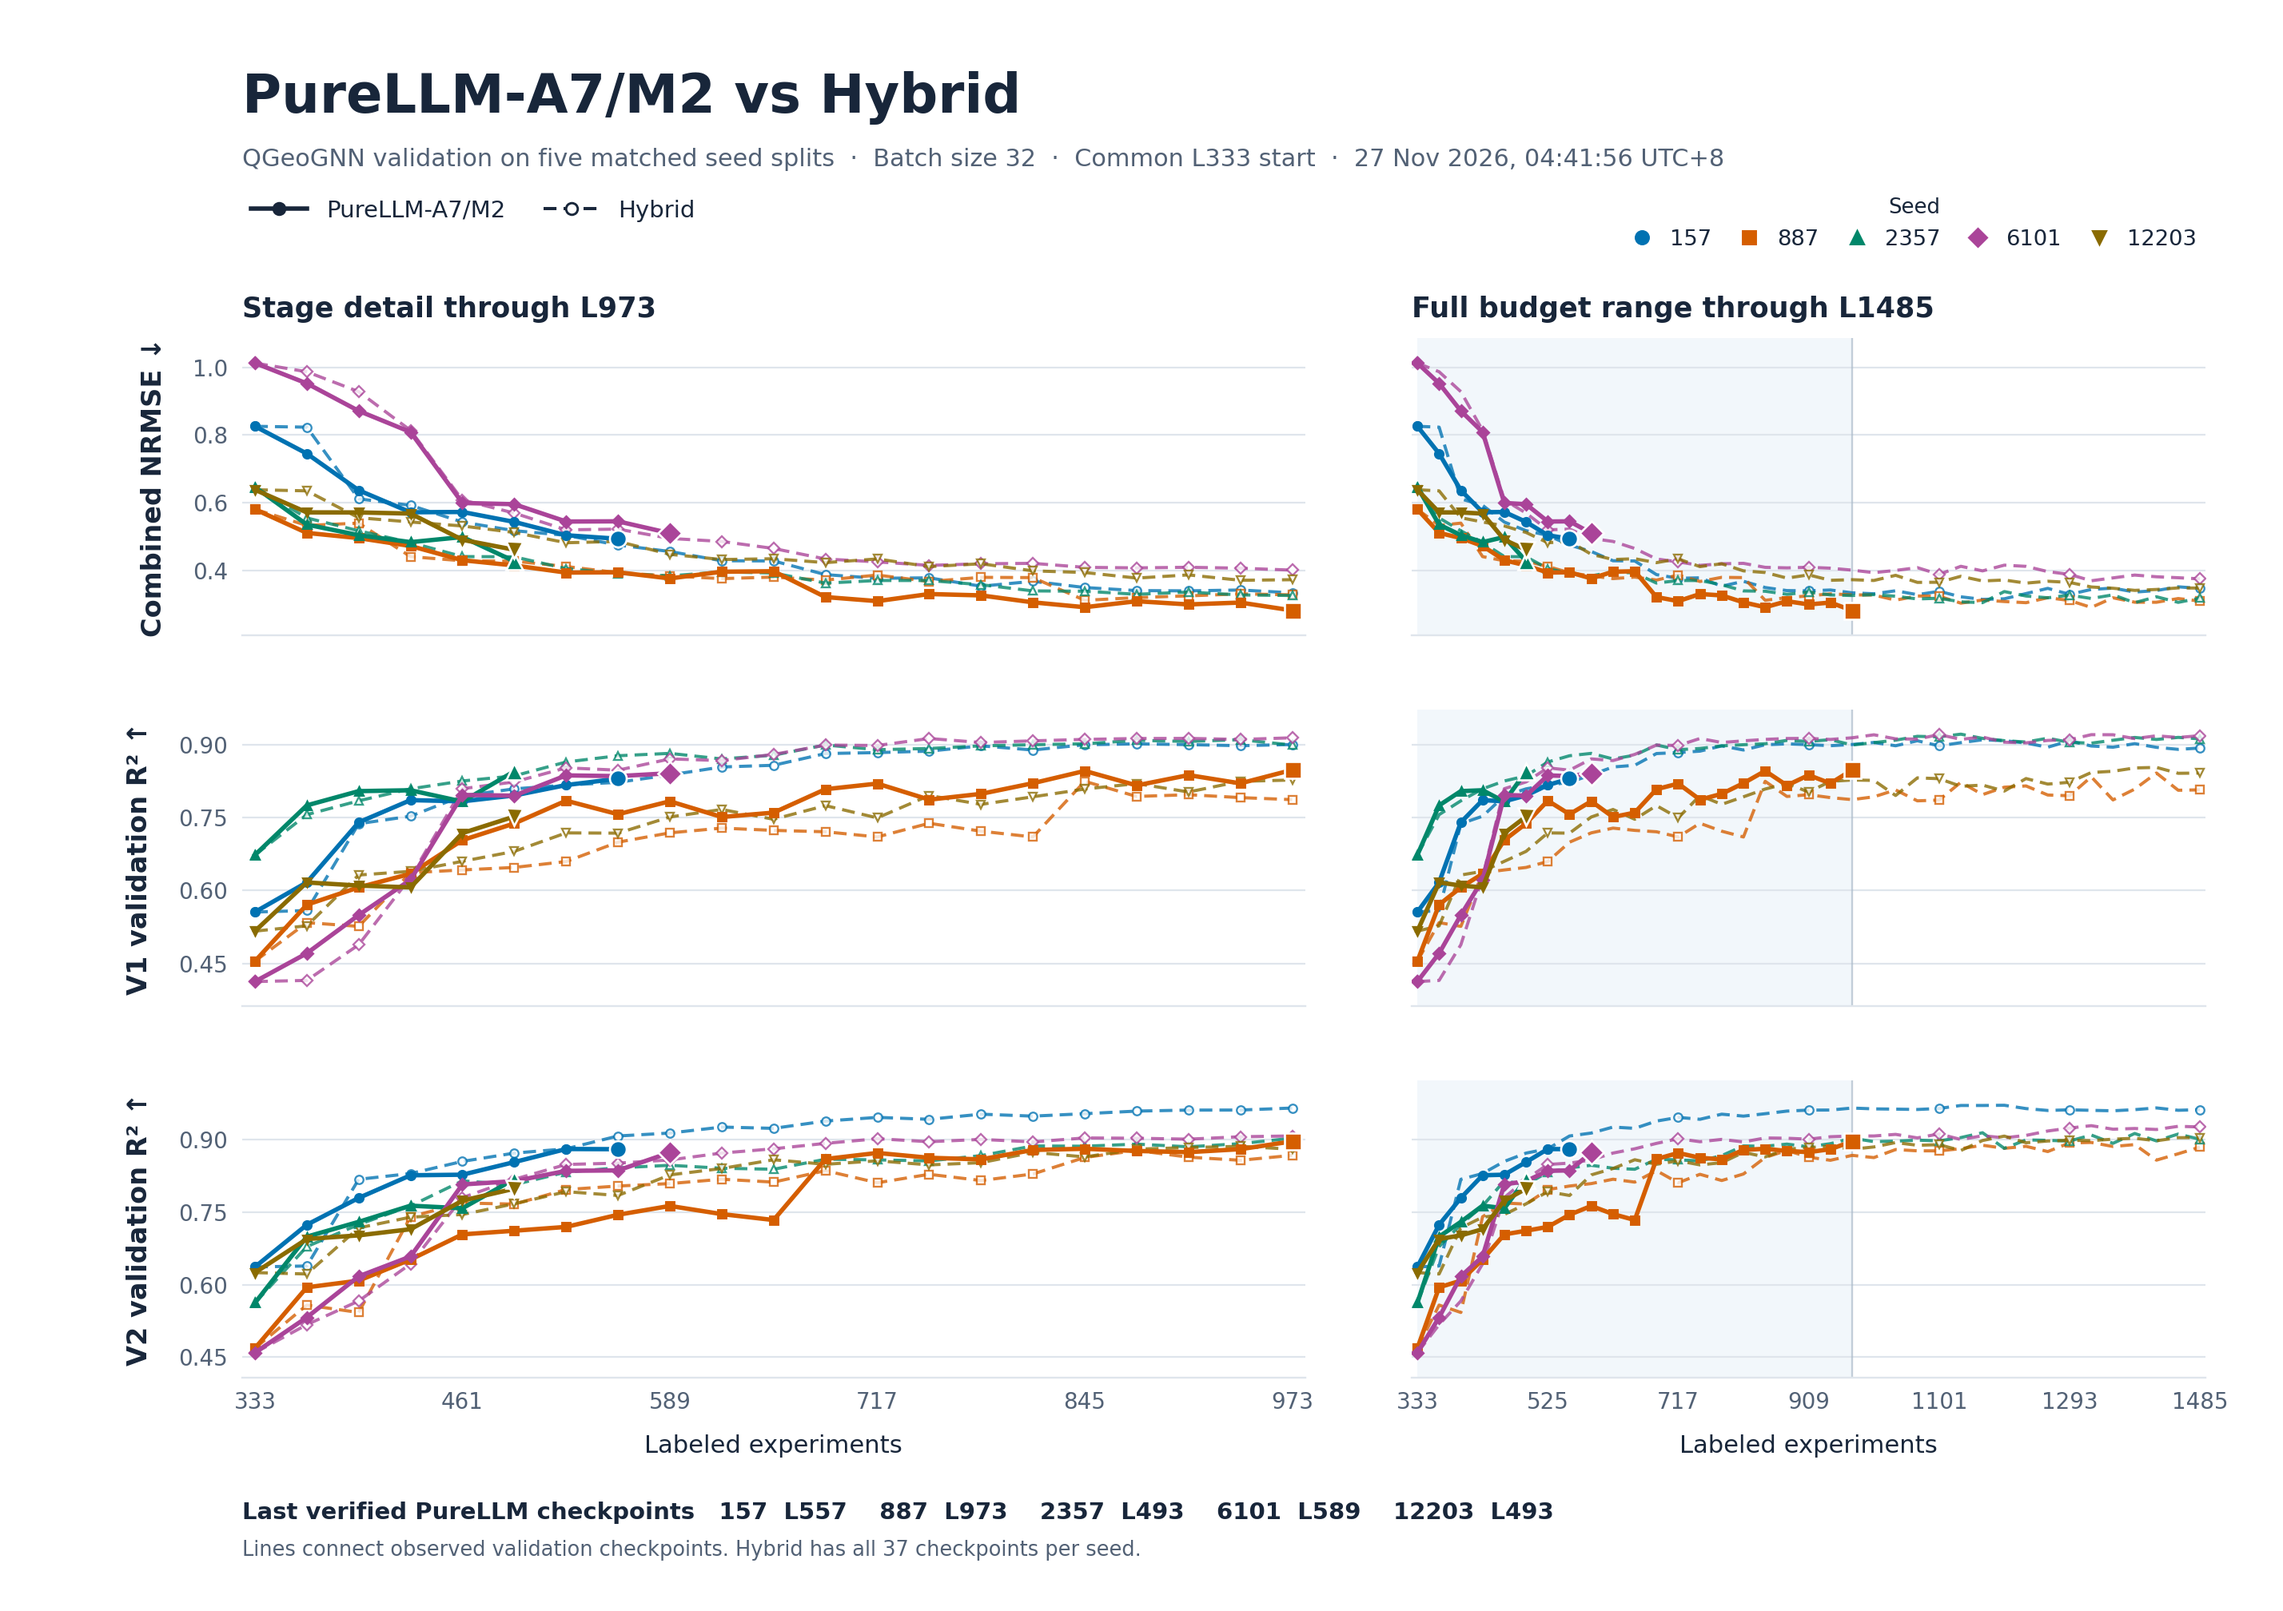
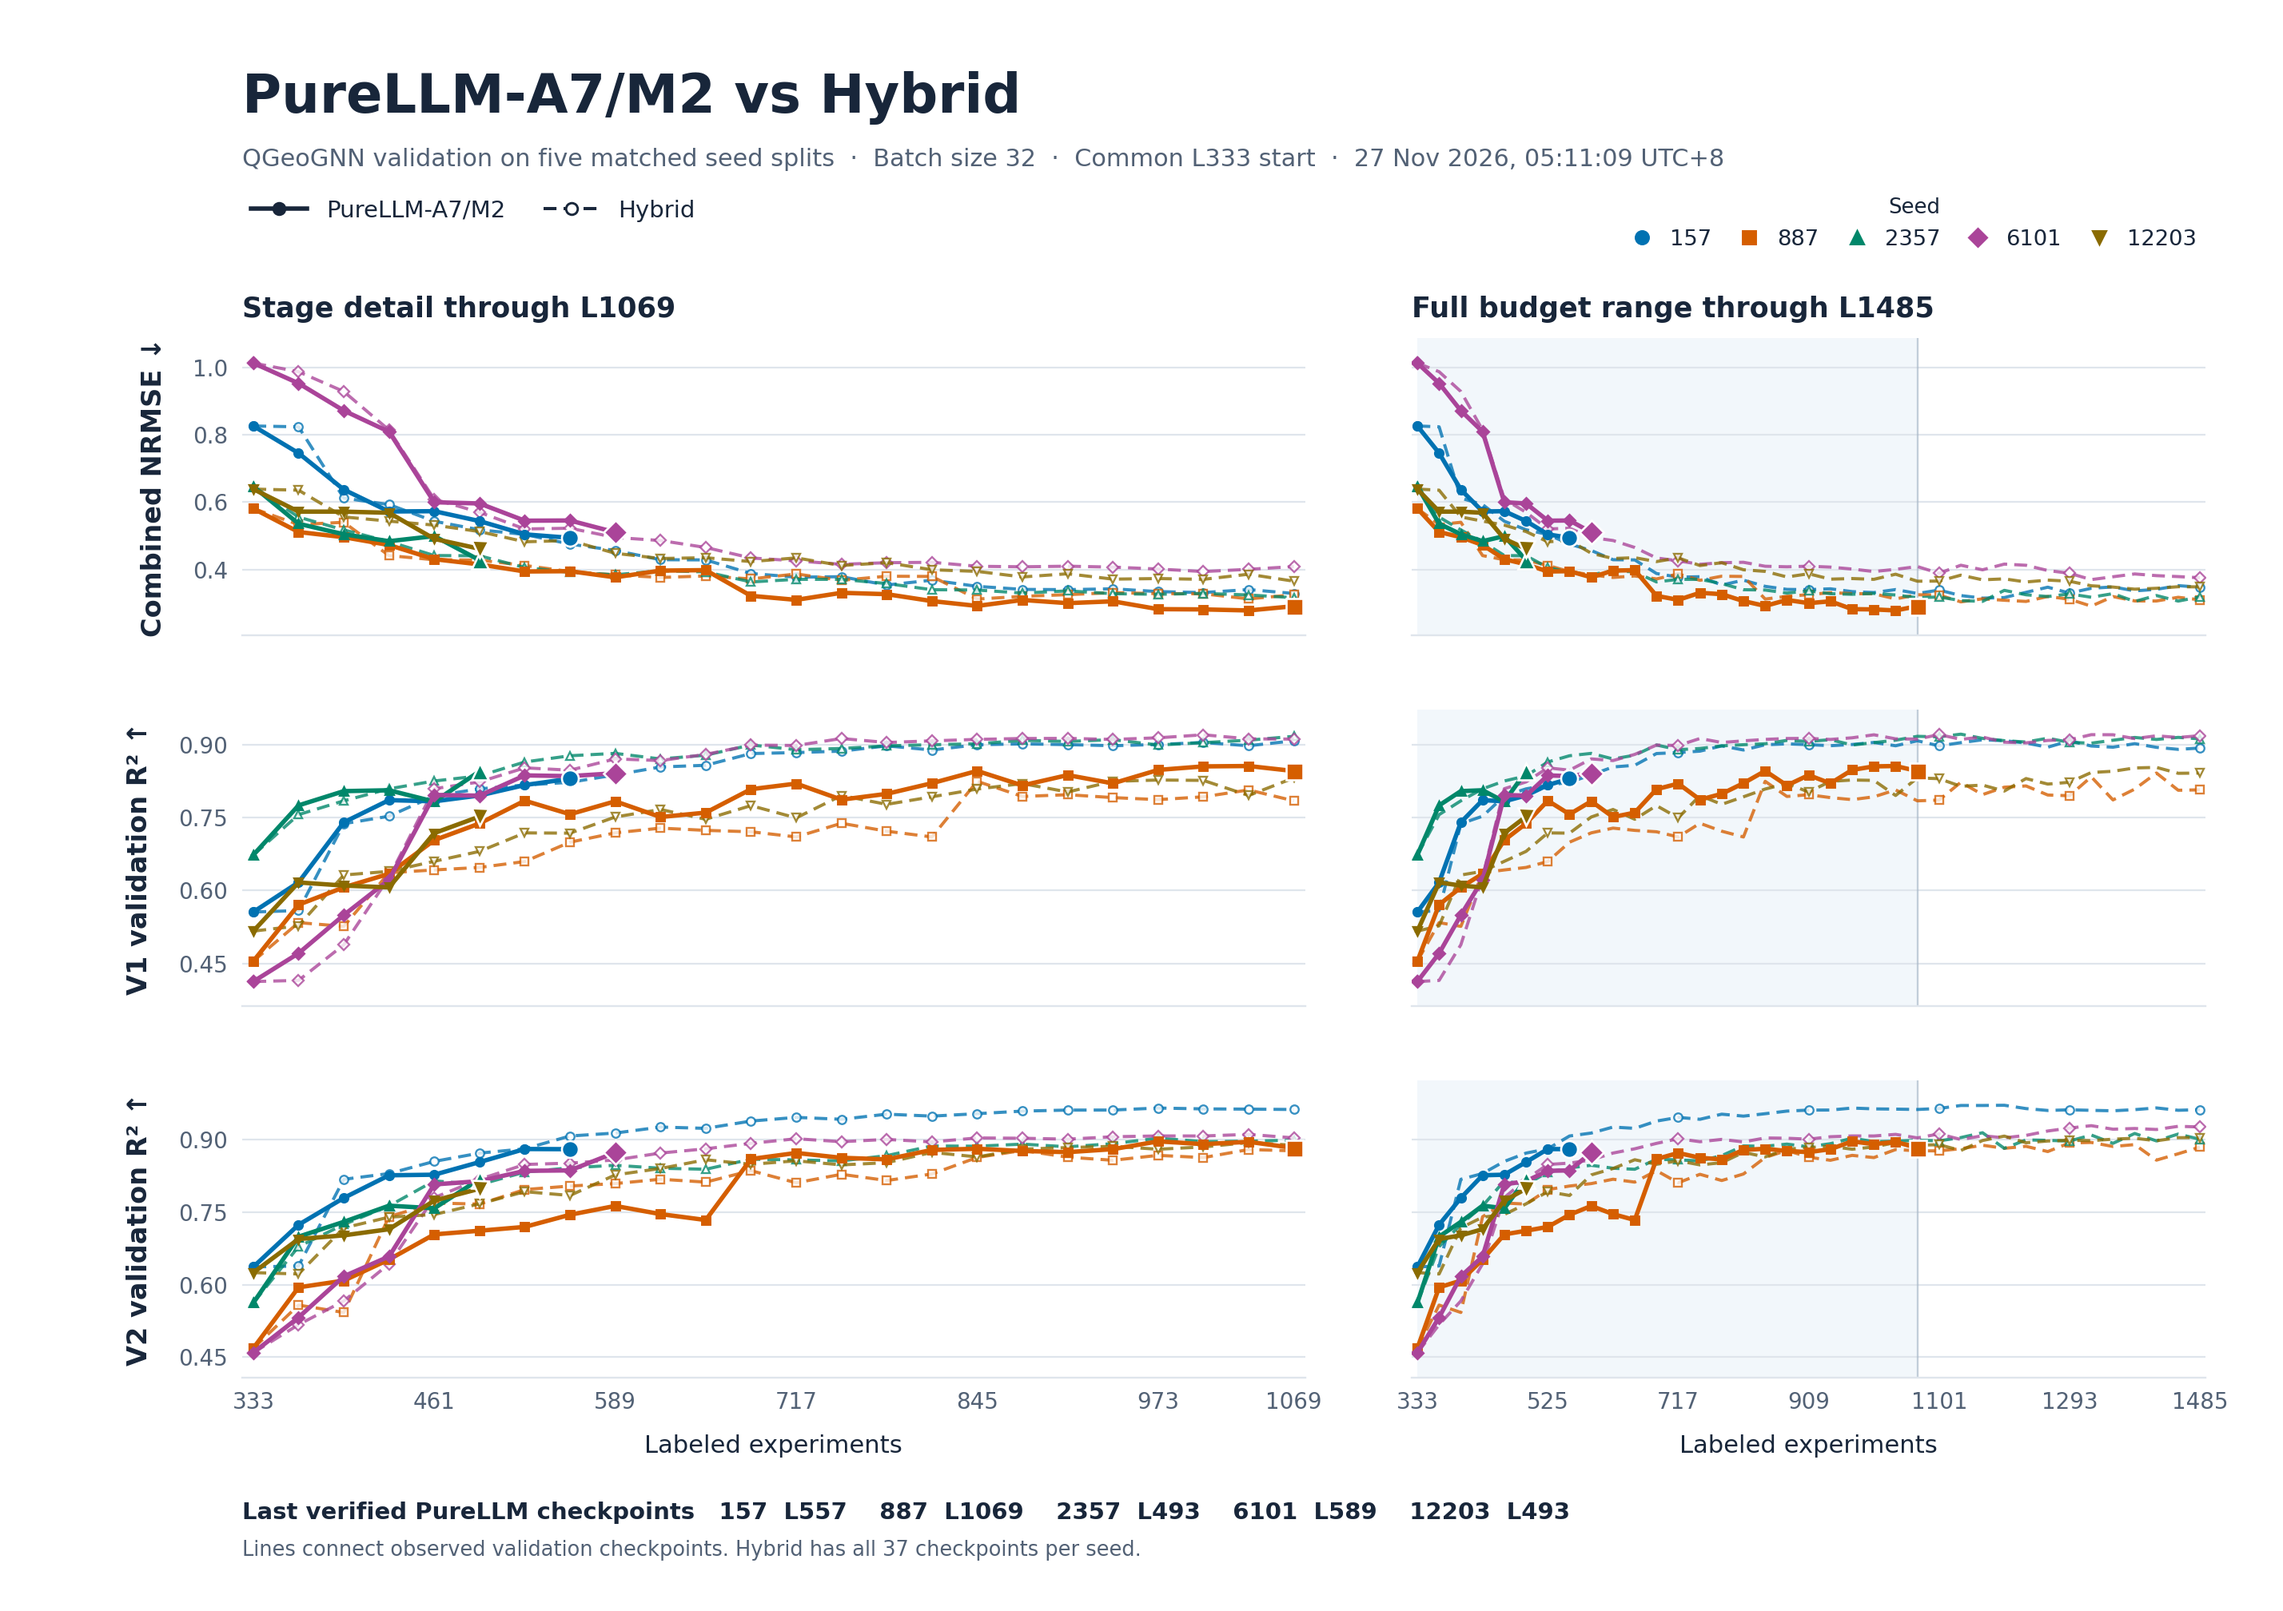
Refresh paired stage comparison through seed 887 L1069

diff --git a/reports/purellm_a7_stage_20261126/README.md b/reports/purellm_a7_stage_20261126/README.md
@@ -1,8 +1,8 @@
 # PureLLM-A7/M2 与 Hybrid 五 seed 阶段对比
 
-验证数据快照的核验时间为北京时间 2026 年 11 月 27 日 04:41:56。PureLLM 已完成 45 轮 CUDA 训练，记录了 1,440 条冻结选点及其理由。Hybrid 为正式 CUDA Uncertainty + Diversity Hybrid32，五条轨迹均已到 L1485。
+验证数据快照的核验时间为北京时间 2026 年 11 月 27 日 05:11:09。PureLLM 已完成 48 轮 CUDA 训练，记录了 1,536 条冻结选点及其理由。Hybrid 为正式 CUDA Uncertainty + Diversity Hybrid32，五条轨迹均已到 L1485。
 
-两种方法在每个 seed 上共用同一份 L333 CUDA checkpoint、验证划分和 QGeoGNN 训练协议，每轮新增 32 个实验。图中数值来自各预算选定 checkpoint 的验证记录。左侧放大截至 L973 的阶段性曲线，右侧展示完整预算范围。实线止于各 seed 最后一次已完成的 PureLLM 训练。颜色和标记配对同一个 seed。 [L333 配对核验](paired_l333_anchor_receipts.json) · [Hybrid 正式归档](../eit_cuda_three_methods_20261124/README.md)
+两种方法在每个 seed 上共用同一份 L333 CUDA checkpoint、验证划分和 QGeoGNN 训练协议，每轮新增 32 个实验。图中数值来自各预算选定 checkpoint 的验证记录。左侧放大截至 L1069 的阶段性曲线，右侧展示完整预算范围。实线止于各 seed 最后一次已完成的 PureLLM 训练。颜色和标记配对同一个 seed。 [L333 配对核验](paired_l333_anchor_receipts.json) · [Hybrid 正式归档](../eit_cuda_three_methods_20261124/README.md)
 
 ![PureLLM 与 Hybrid 的五 seed 验证曲线](purellm_vs_hybrid_stage.png)
 
@@ -11,7 +11,7 @@
 | Seed | PureLLM 已完成轮次 | 最新预算 | PureLLM 验证 NRMSE | 同预算 Hybrid NRMSE | 差值 |
 |---:|---:|---:|---:|---:|---:|
 | 157 | 7 | L557 | 0.4944 | 0.4759 | +0.0185 |
-| 887 | 20 | L973 | 0.2831 | 0.3291 | -0.0460 |
+| 887 | 23 | L1069 | 0.2919 | 0.3257 | -0.0339 |
 | 2357 | 5 | L493 | 0.4282 | 0.4412 | -0.0130 |
 | 6101 | 8 | L589 | 0.5108 | 0.4954 | +0.0154 |
 | 12203 | 5 | L493 | 0.4620 | 0.5130 | -0.0510 |
@@ -28,9 +28,11 @@
 
 887 的 R19 原付费请求已收到服务商的完整响应。旧解析器因一条只有一个空格的未标注消息拒绝了该响应。系统从归档回执提取显式最终答案，核验原有 32 个选点、顺序及理由后完成训练至 L973。该轮原请求报告 358,211 个输入 token 和 14,039 个输出 token，其中推理 5,435 个。归档恢复新增 0 次 API 请求，L973 的验证 NRMSE 为 **0.2831**。
 
+887 的 R20 和 R21 实际回复均带有一个未标注阶段的单空格占位消息。新解析器保留了完整的显式最终答案，两轮首答均通过 A7 校验。R22 回复直接包含显式最终答案，首答也通过校验。三轮各冻结 32 个选点并完成 CUDA 训练。L1069 的验证 NRMSE 为 **0.2919**。
+
 ## 数据和选点
 
-- [PureLLM 验证指标](purellm_validation_curves.csv) 包含 5 个初始检查点和 45 个后续训练点。`round=0` 对应共享 L333，`acquisition_round=0` 对应首次选点和 L365 训练。 CSV 保留每个指标文件和 checkpoint 的摘要。 [PureLLM 逐文件清单](purellm_export_manifest.json)
+- [PureLLM 验证指标](purellm_validation_curves.csv) 包含 5 个初始检查点和 48 个后续训练点。`round=0` 对应共享 L333，`acquisition_round=0` 对应首次选点和 L365 训练。 CSV 保留每个指标文件和 checkpoint 的摘要。 [PureLLM 逐文件清单](purellm_export_manifest.json)
 - [Hybrid 验证指标](hybrid_validation_curves.csv) 共 185 个检查点。 [来源和校验记录](hybrid_validation_receipts.json)
 - 每个 seed 的 JSONL 每行对应一个已冻结并完成训练的轮次，保留模型给出的理由、引用和选点顺序。 [157](selections/seed_157_accepted_rounds.jsonl) · [887](selections/seed_887_accepted_rounds.jsonl) · [2357](selections/seed_2357_accepted_rounds.jsonl) · [6101](selections/seed_6101_accepted_rounds.jsonl) · [12203](selections/seed_12203_accepted_rounds.jsonl)
 
@@ -39,5 +41,5 @@
 使用 Python 和 Matplotlib 3.10.8，在本目录运行以下命令。
 
 ```bash
-python plot_stage.py --snapshot '27 Nov 2026, 04:41:56 UTC+8'
+python plot_stage.py --snapshot '27 Nov 2026, 05:11:09 UTC+8'
 ```
